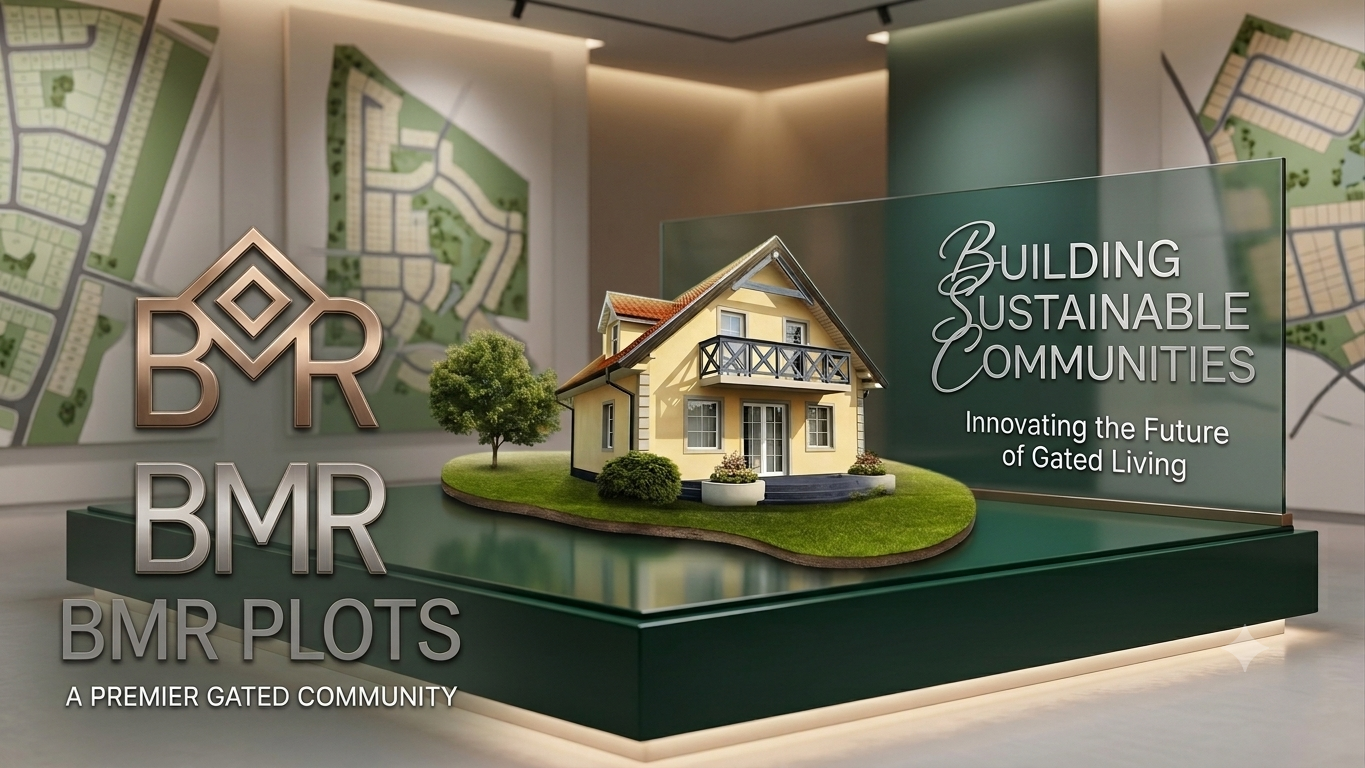
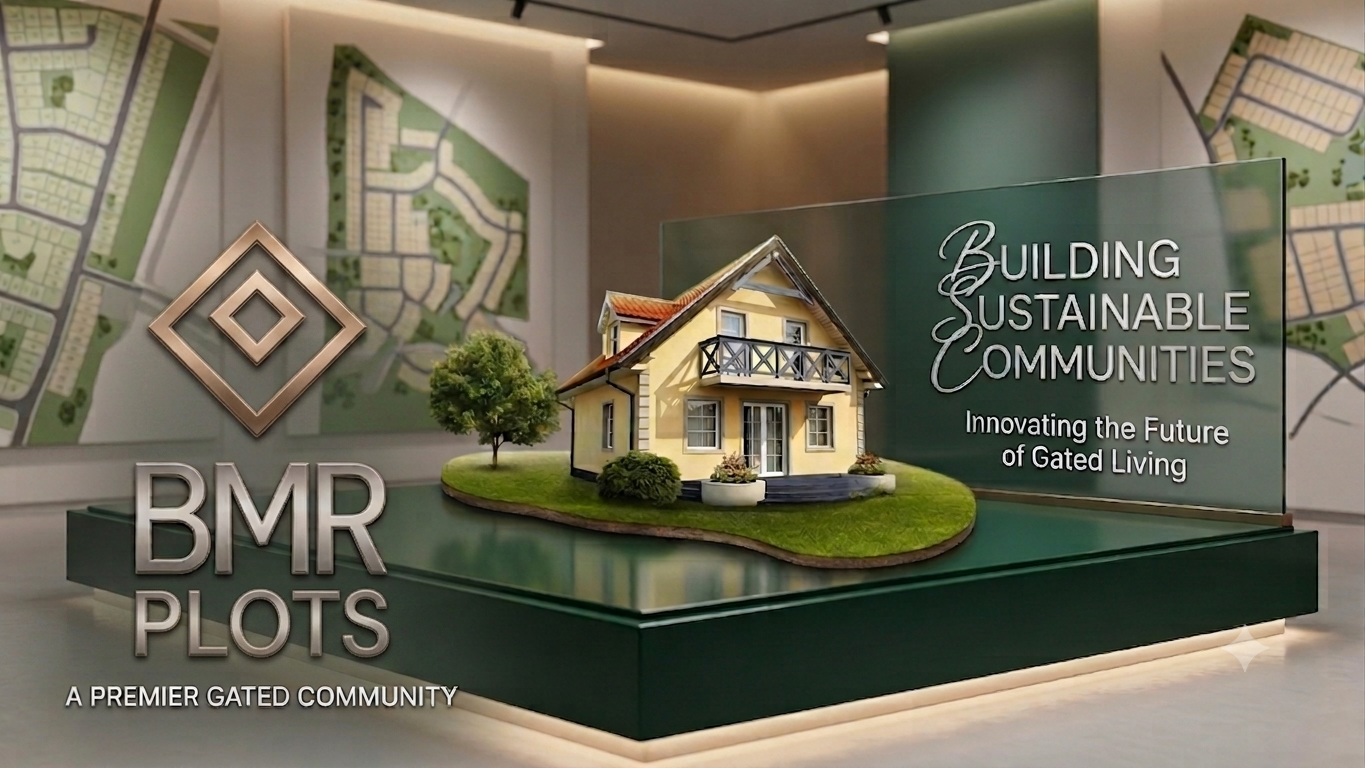
'sucess'

diff --git a/blogs/blog1.html b/blogs/blog1.html
@@ -83,7 +83,7 @@
                 ✅ Prioritize Speed: Optimize for the user experience first.
             </div>
             
-            <p><em>"The future is bright—and it's built by curious minds like yours. Keep building, keep experimenting!"</em><br><strong>— prathish deivendiran </strong> <a href="">view profile</a></p>
+            <p><em>"The future is bright—and it's built by curious minds like yours. Keep building, keep experimenting!"</em><br><strong>— prathish deivendiran </strong> <a href="https://www.prathishfreelancer.duckdns.org/">view profile</a></p>
         </div>
         
         <!-- Tags Section -->